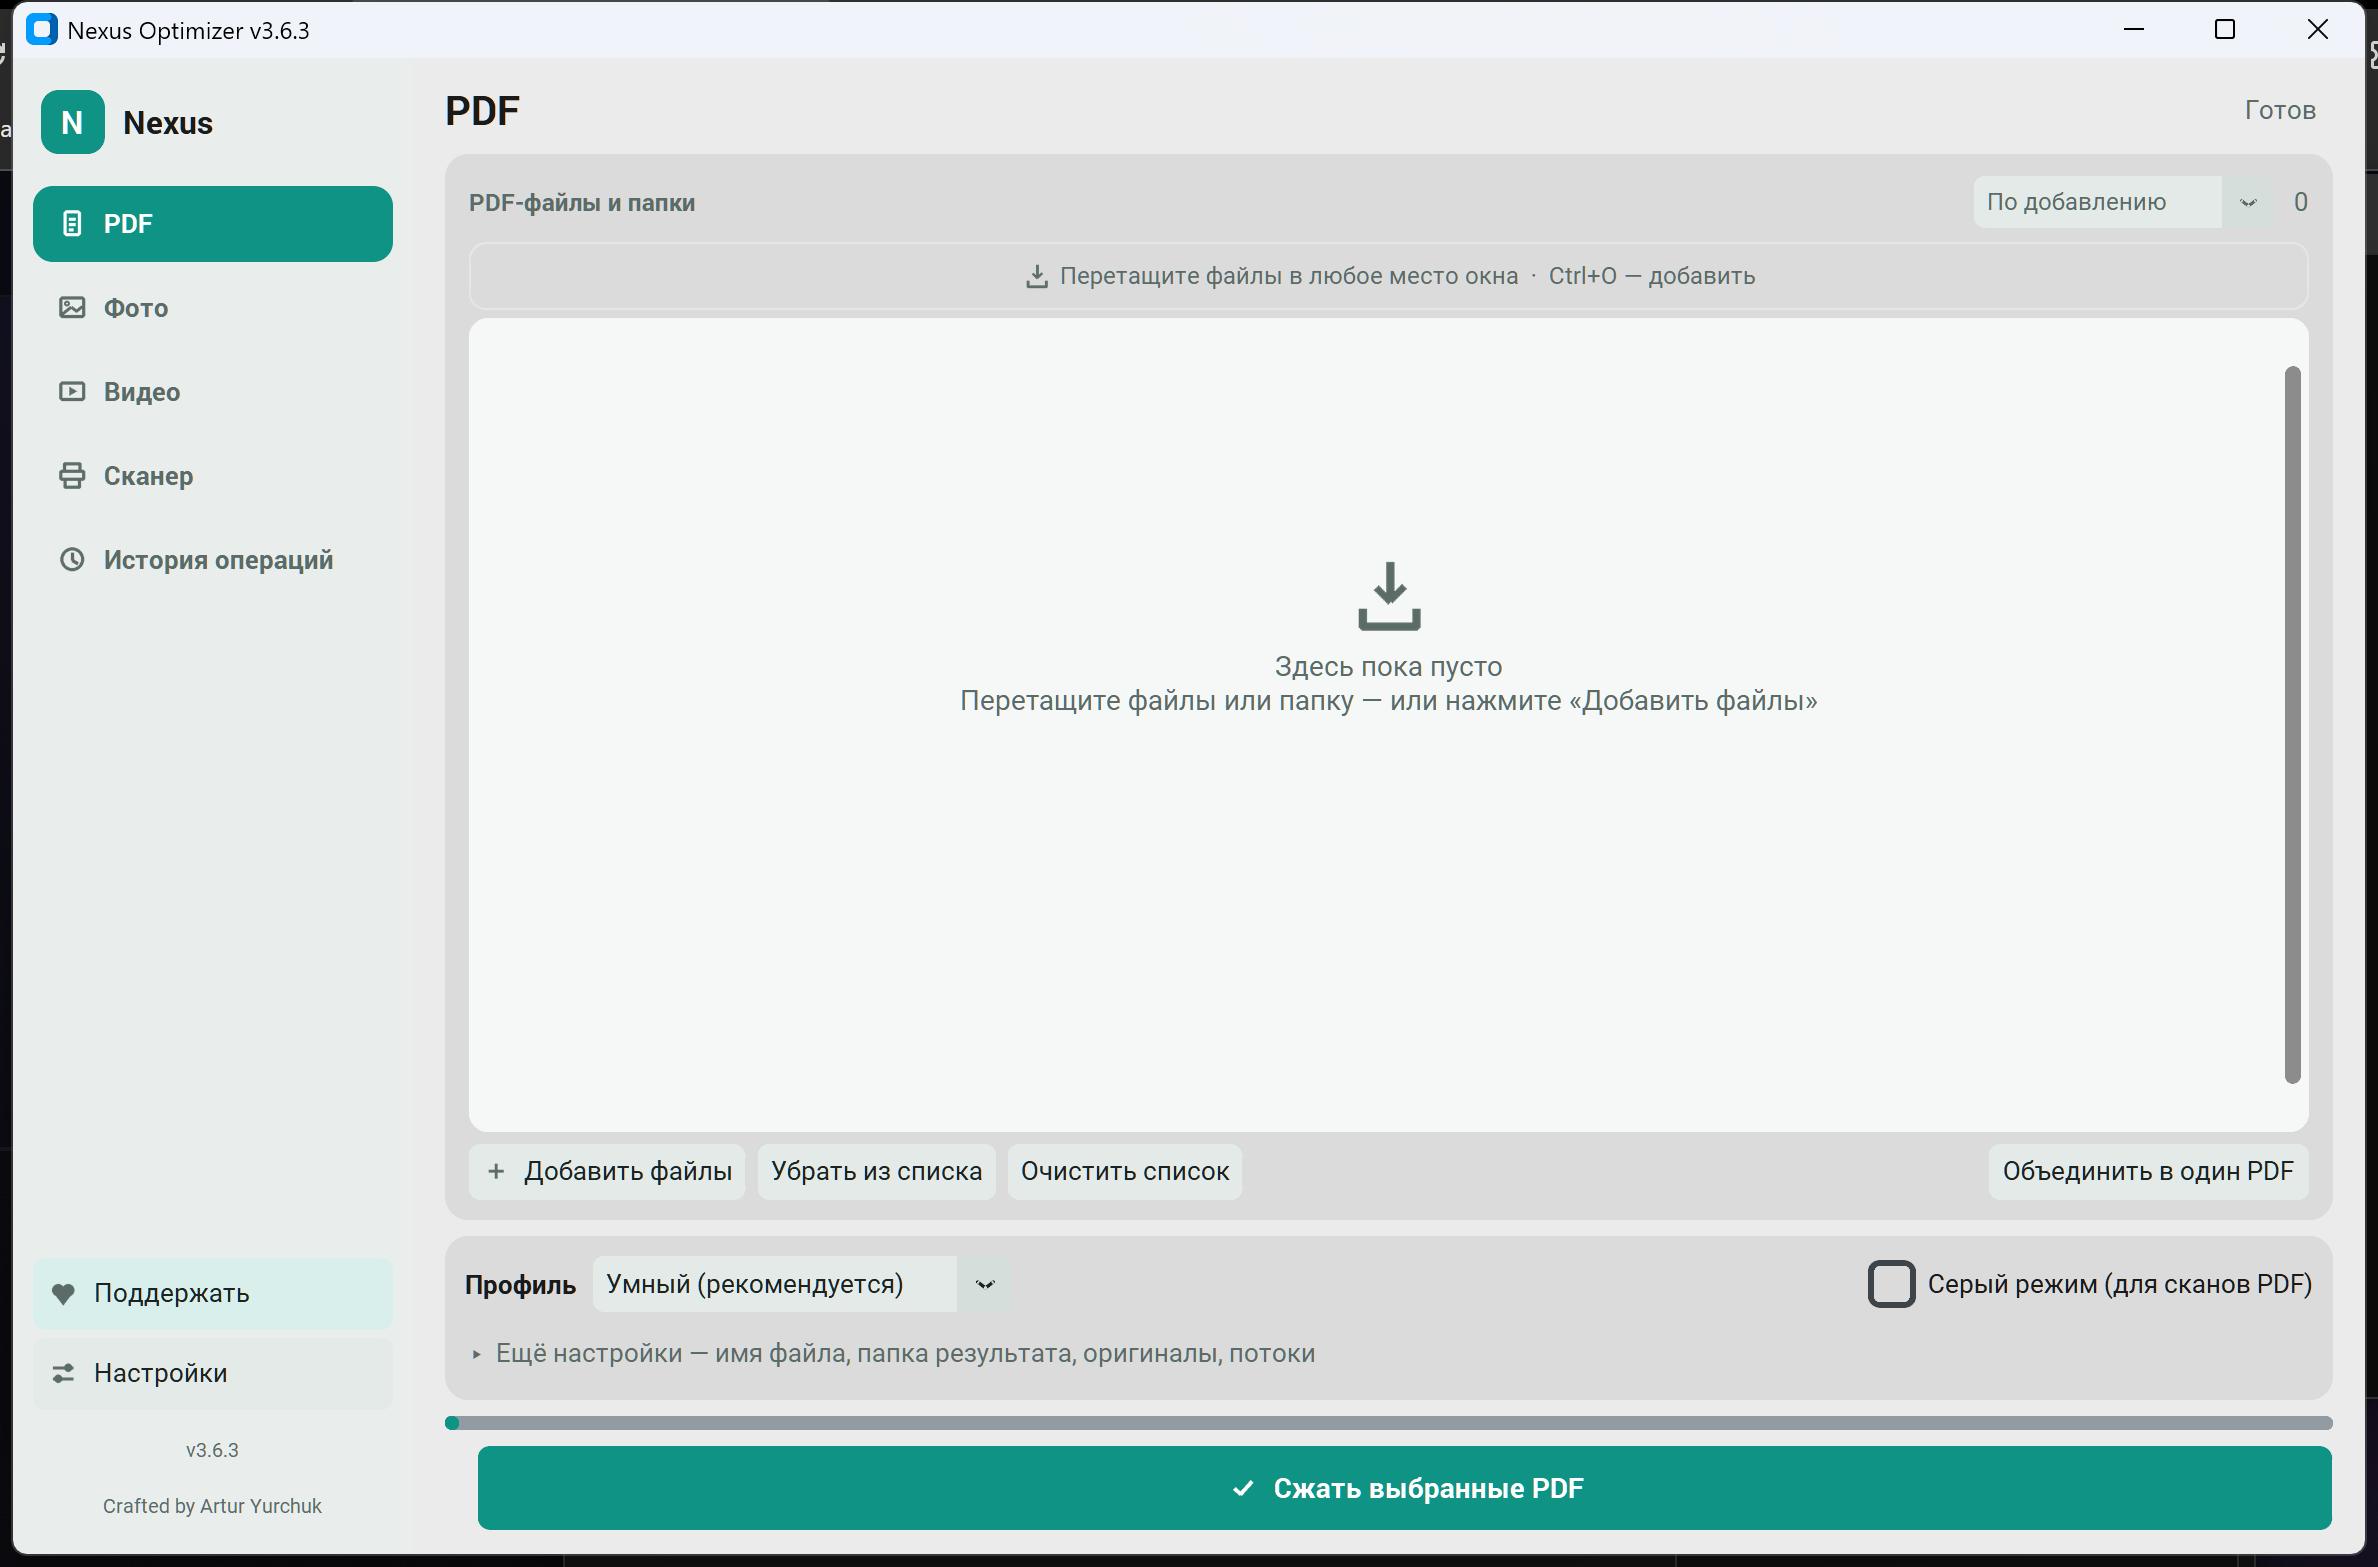
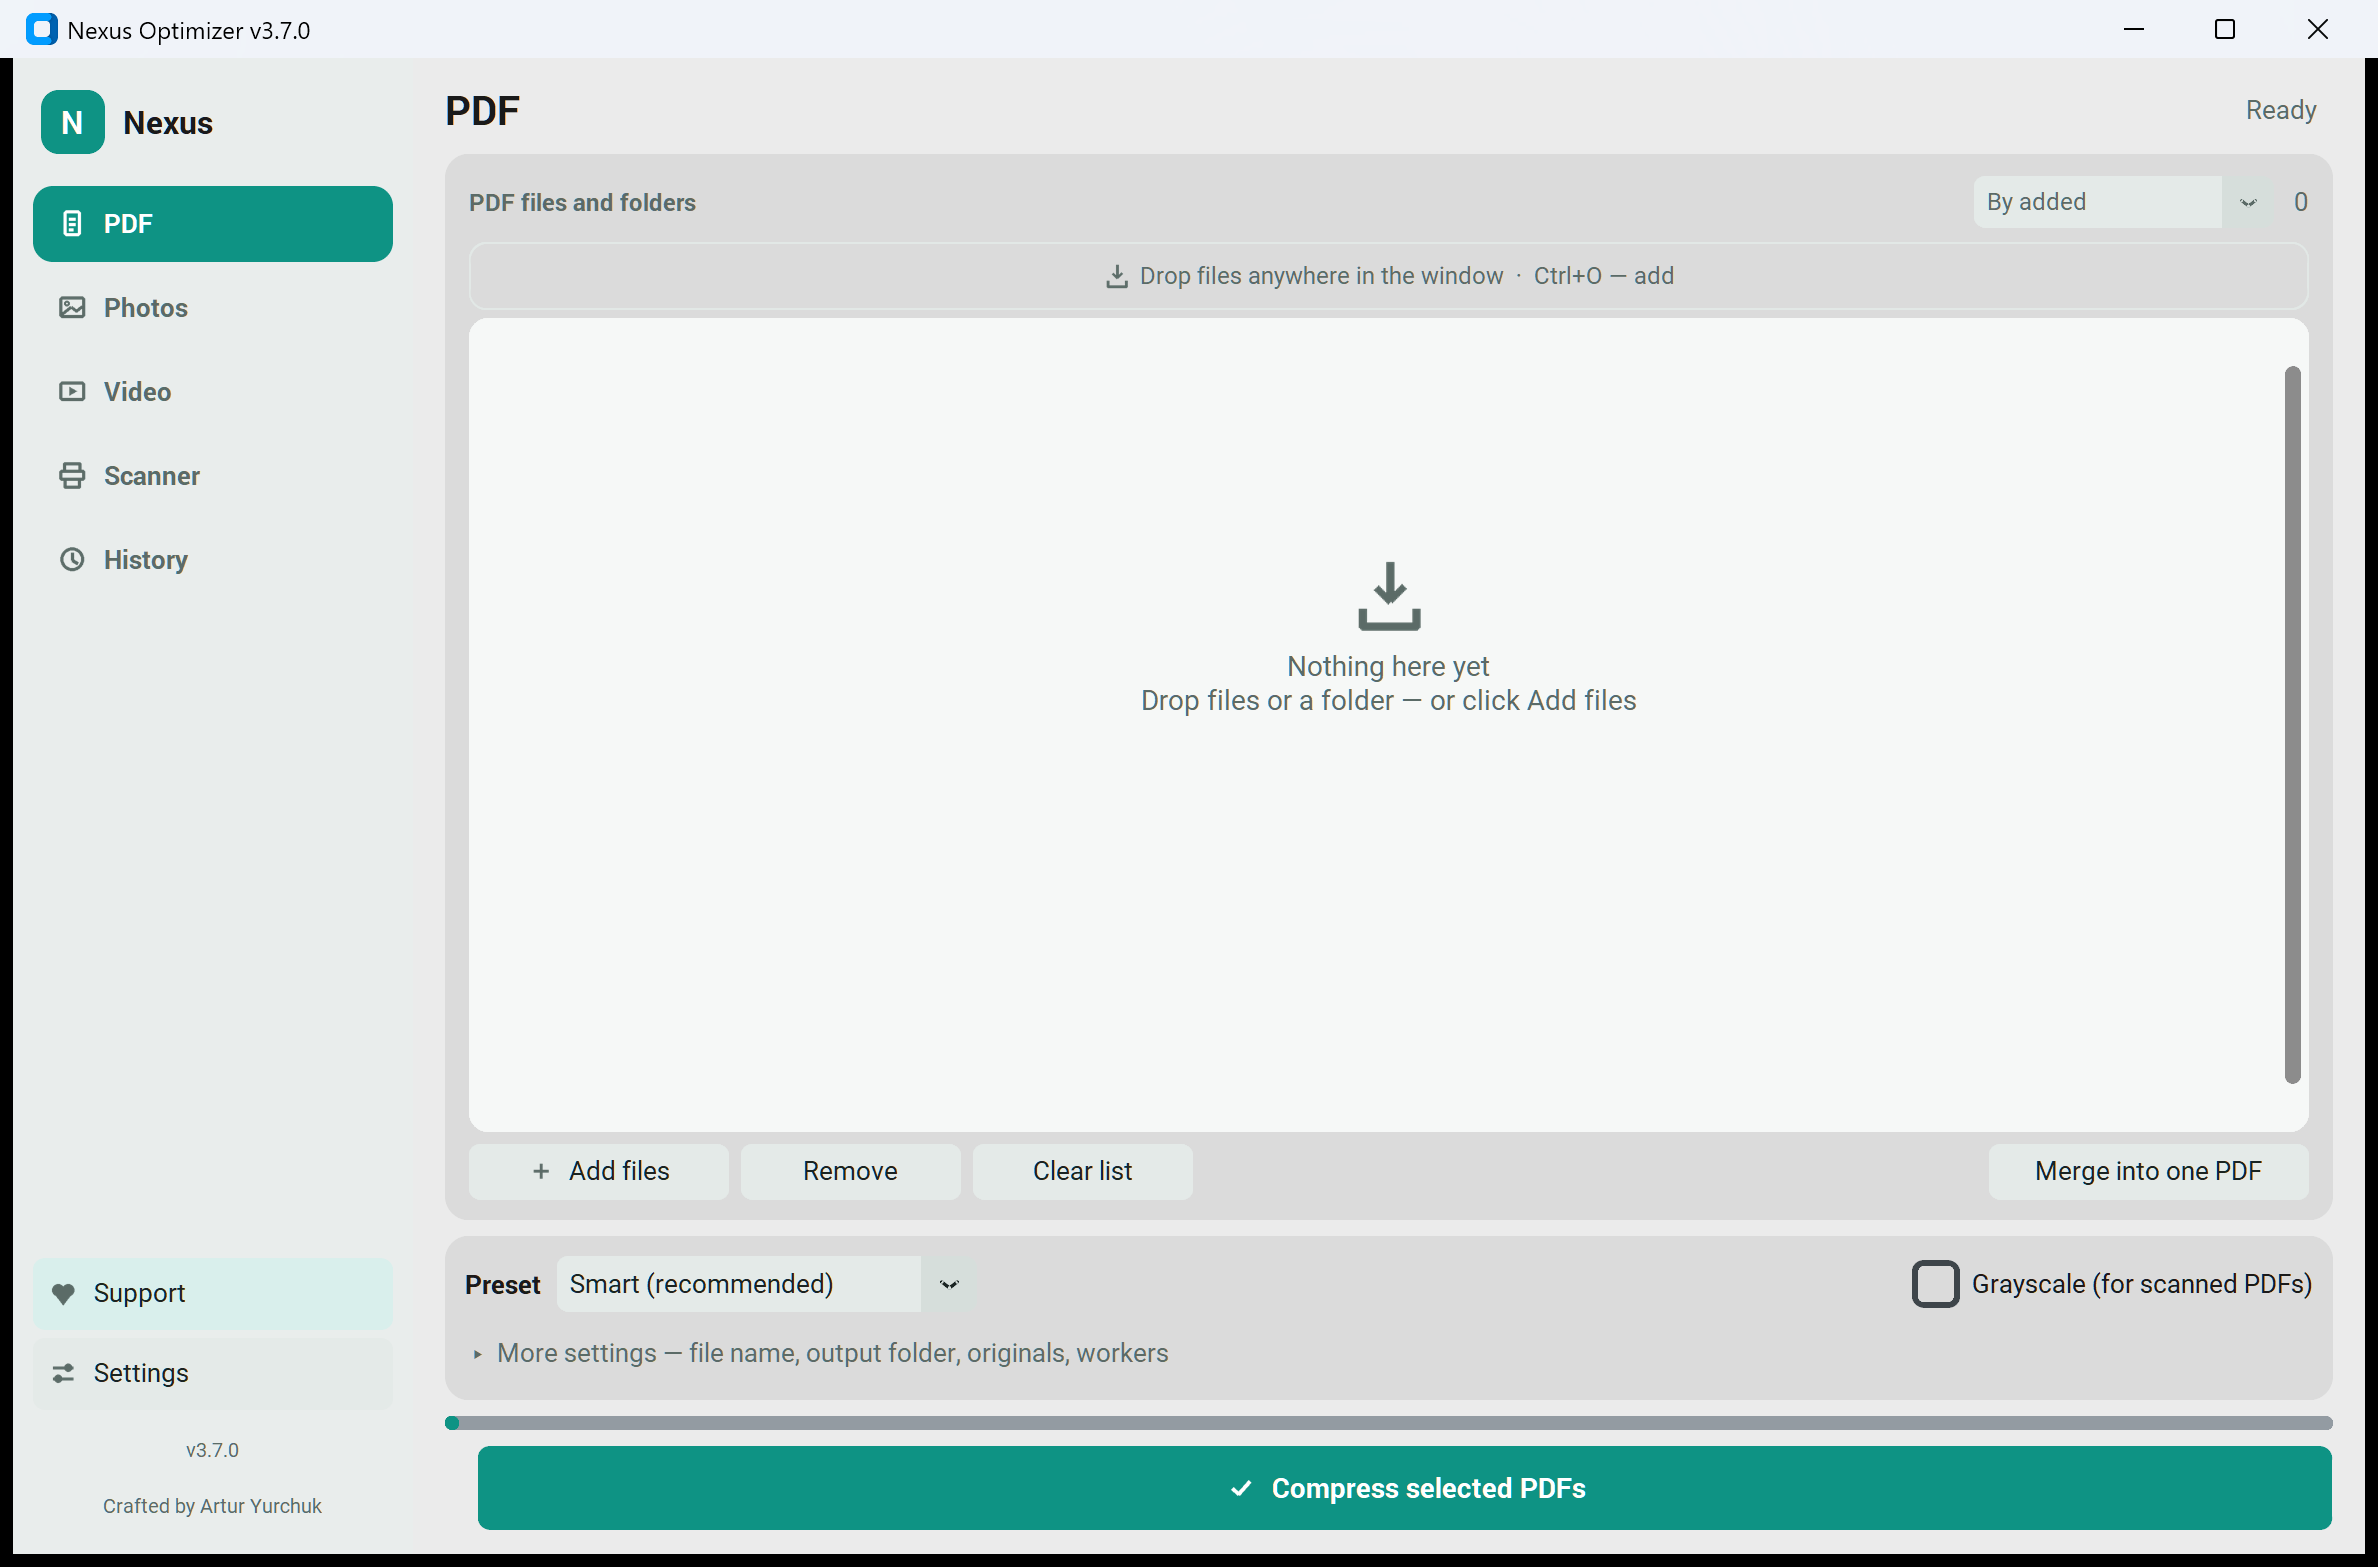
README: English screenshots of the app, installer shot dropped

diff --git a/README.md b/README.md
@@ -59,18 +59,16 @@ just as much as money.
 
 Interface in Russian and English, light and dark themes following Windows.
 
-## The installer
-
-<div align="center">
-
-<img src="docs/images/installer.png" alt="Nexus Optimizer installer" width="760">
-
-</div>
-
-Installs for the current user without administrator rights, or for everyone.
-It upgrades a copy left by the previous (Inno Setup) installer, keeping settings
-and history, and uninstalling removes the program, its shortcuts, the Explorer
-menu entry and the settings folder.
+<table>
+<tr>
+<td width="50%"><img src="docs/images/photos.png" alt="Photo compression"></td>
+<td width="50%"><img src="docs/images/video.png" alt="Video compression"></td>
+</tr>
+<tr>
+<td align="center"><b>Photos</b><br>batch resize and recompress, HEIC included</td>
+<td align="center"><b>Video</b><br>GPU encoding, detected automatically</td>
+</tr>
+</table>
 
 ## Privacy
 
